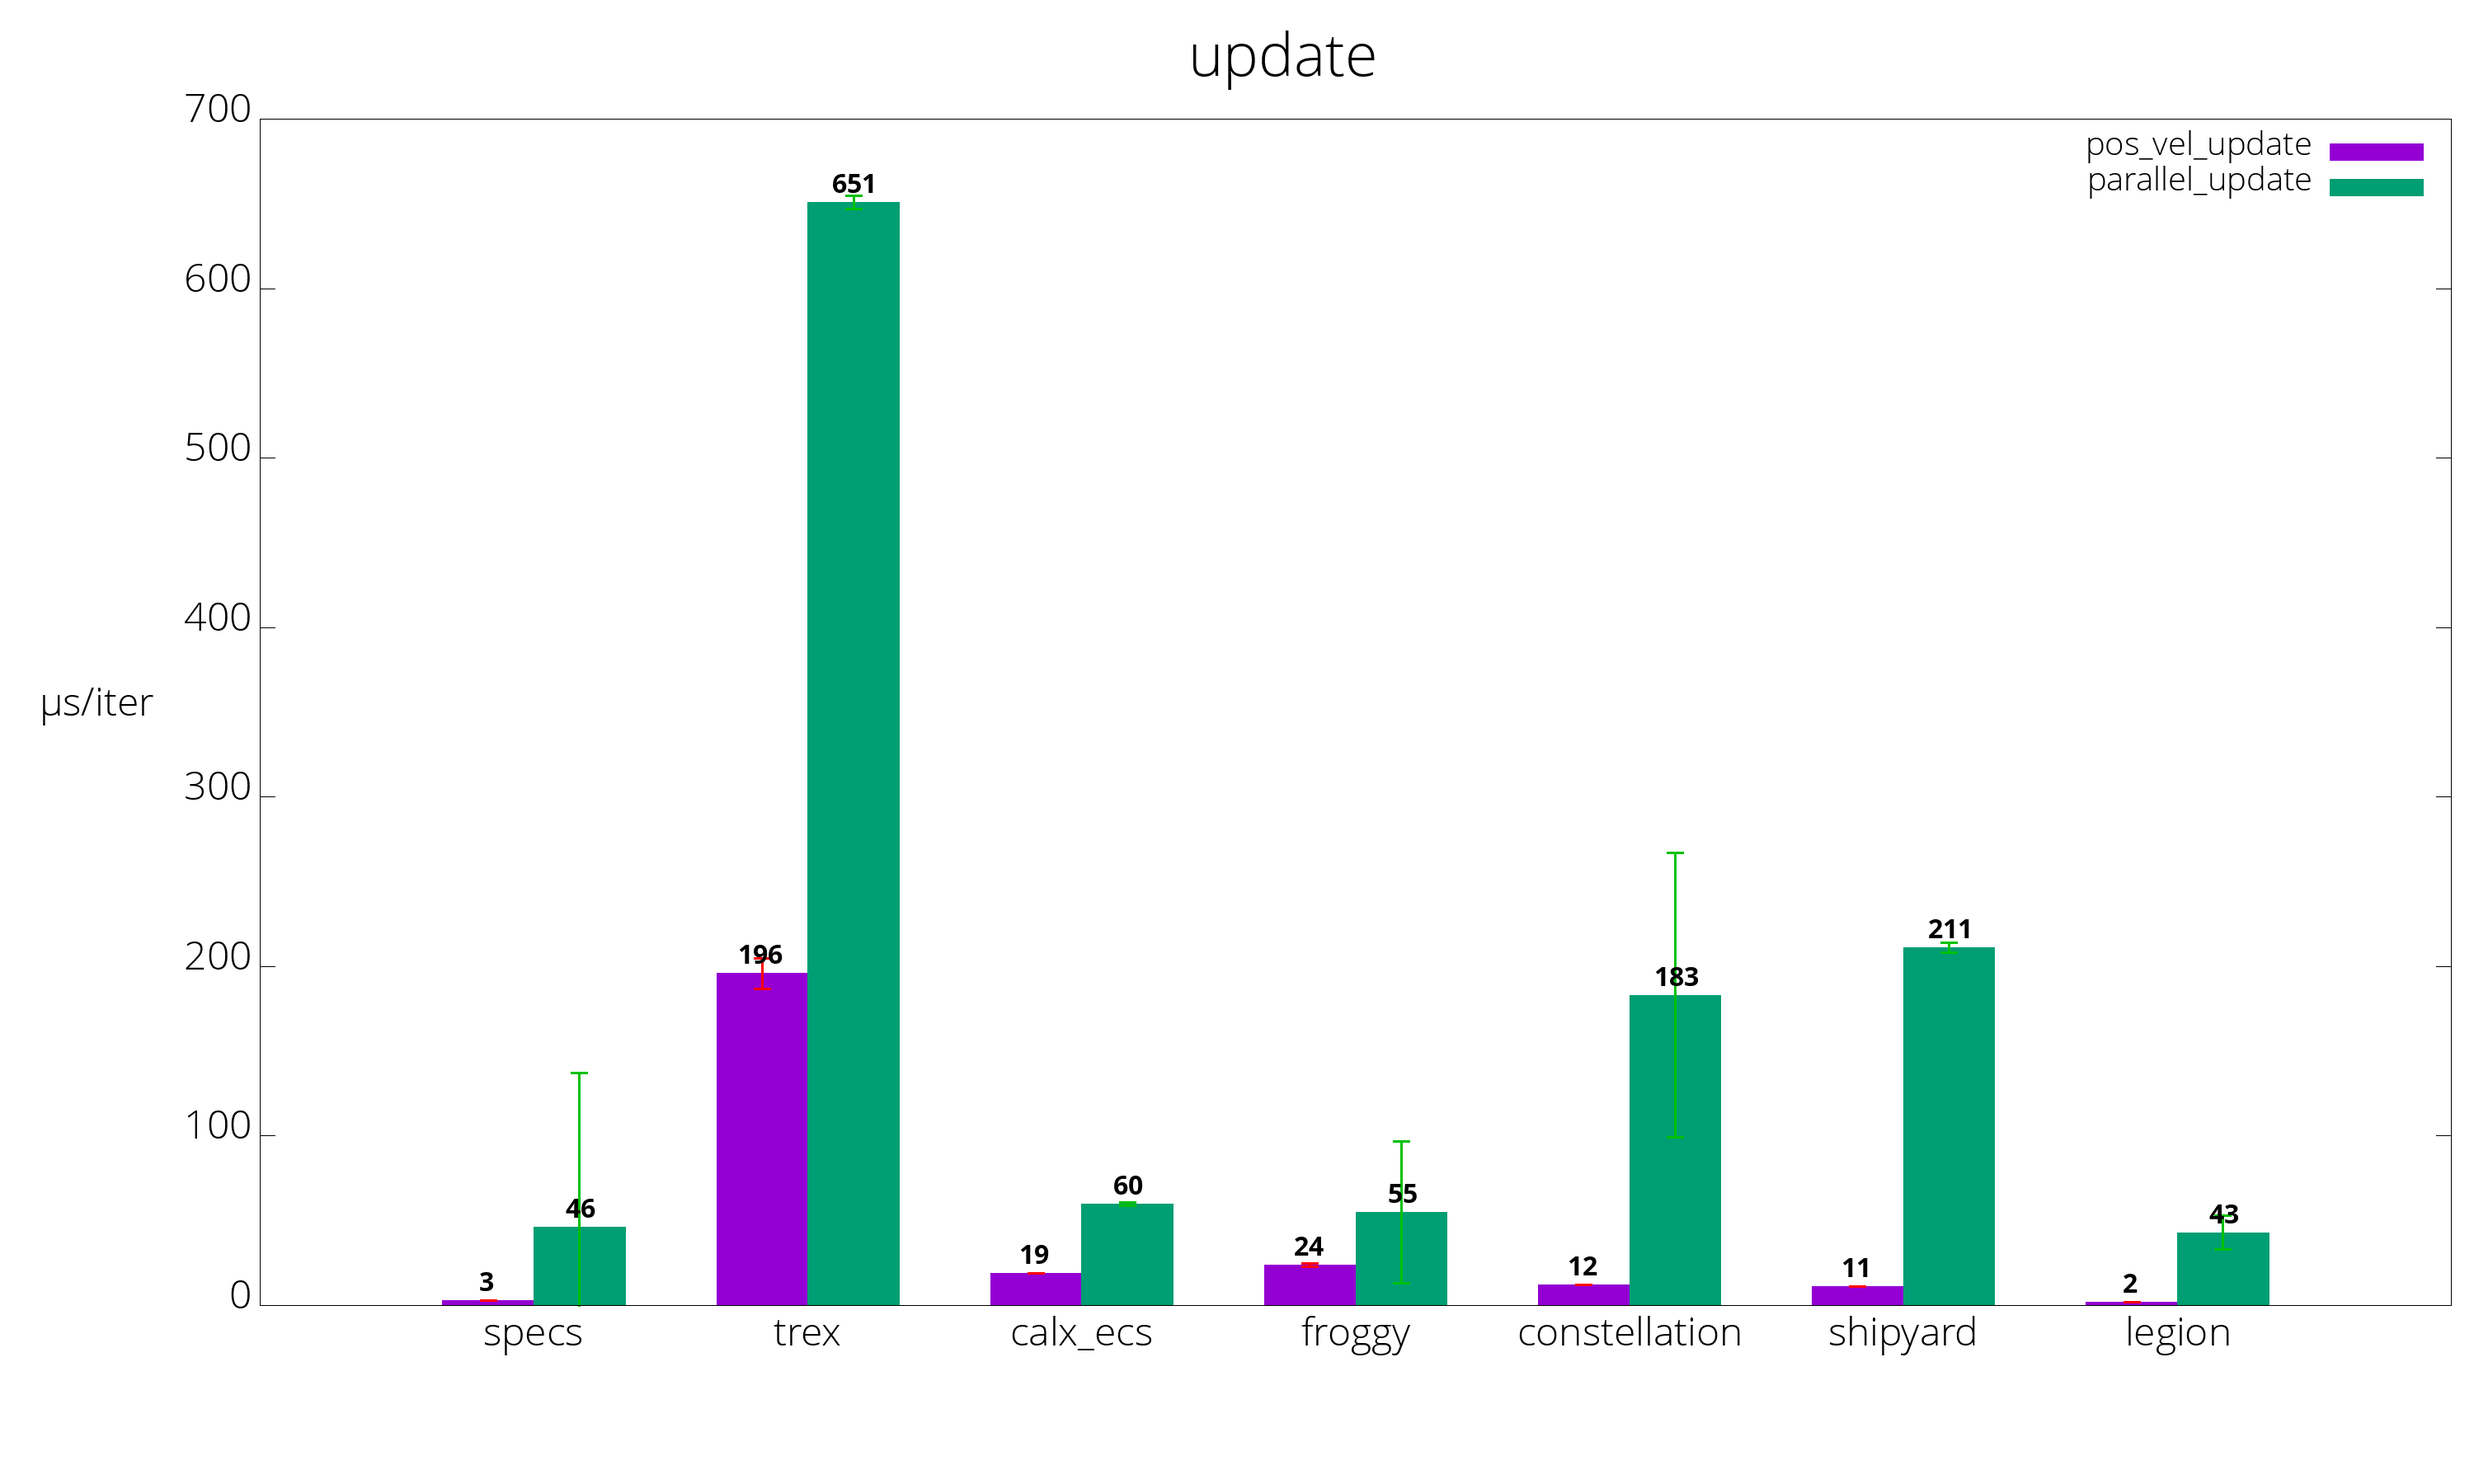
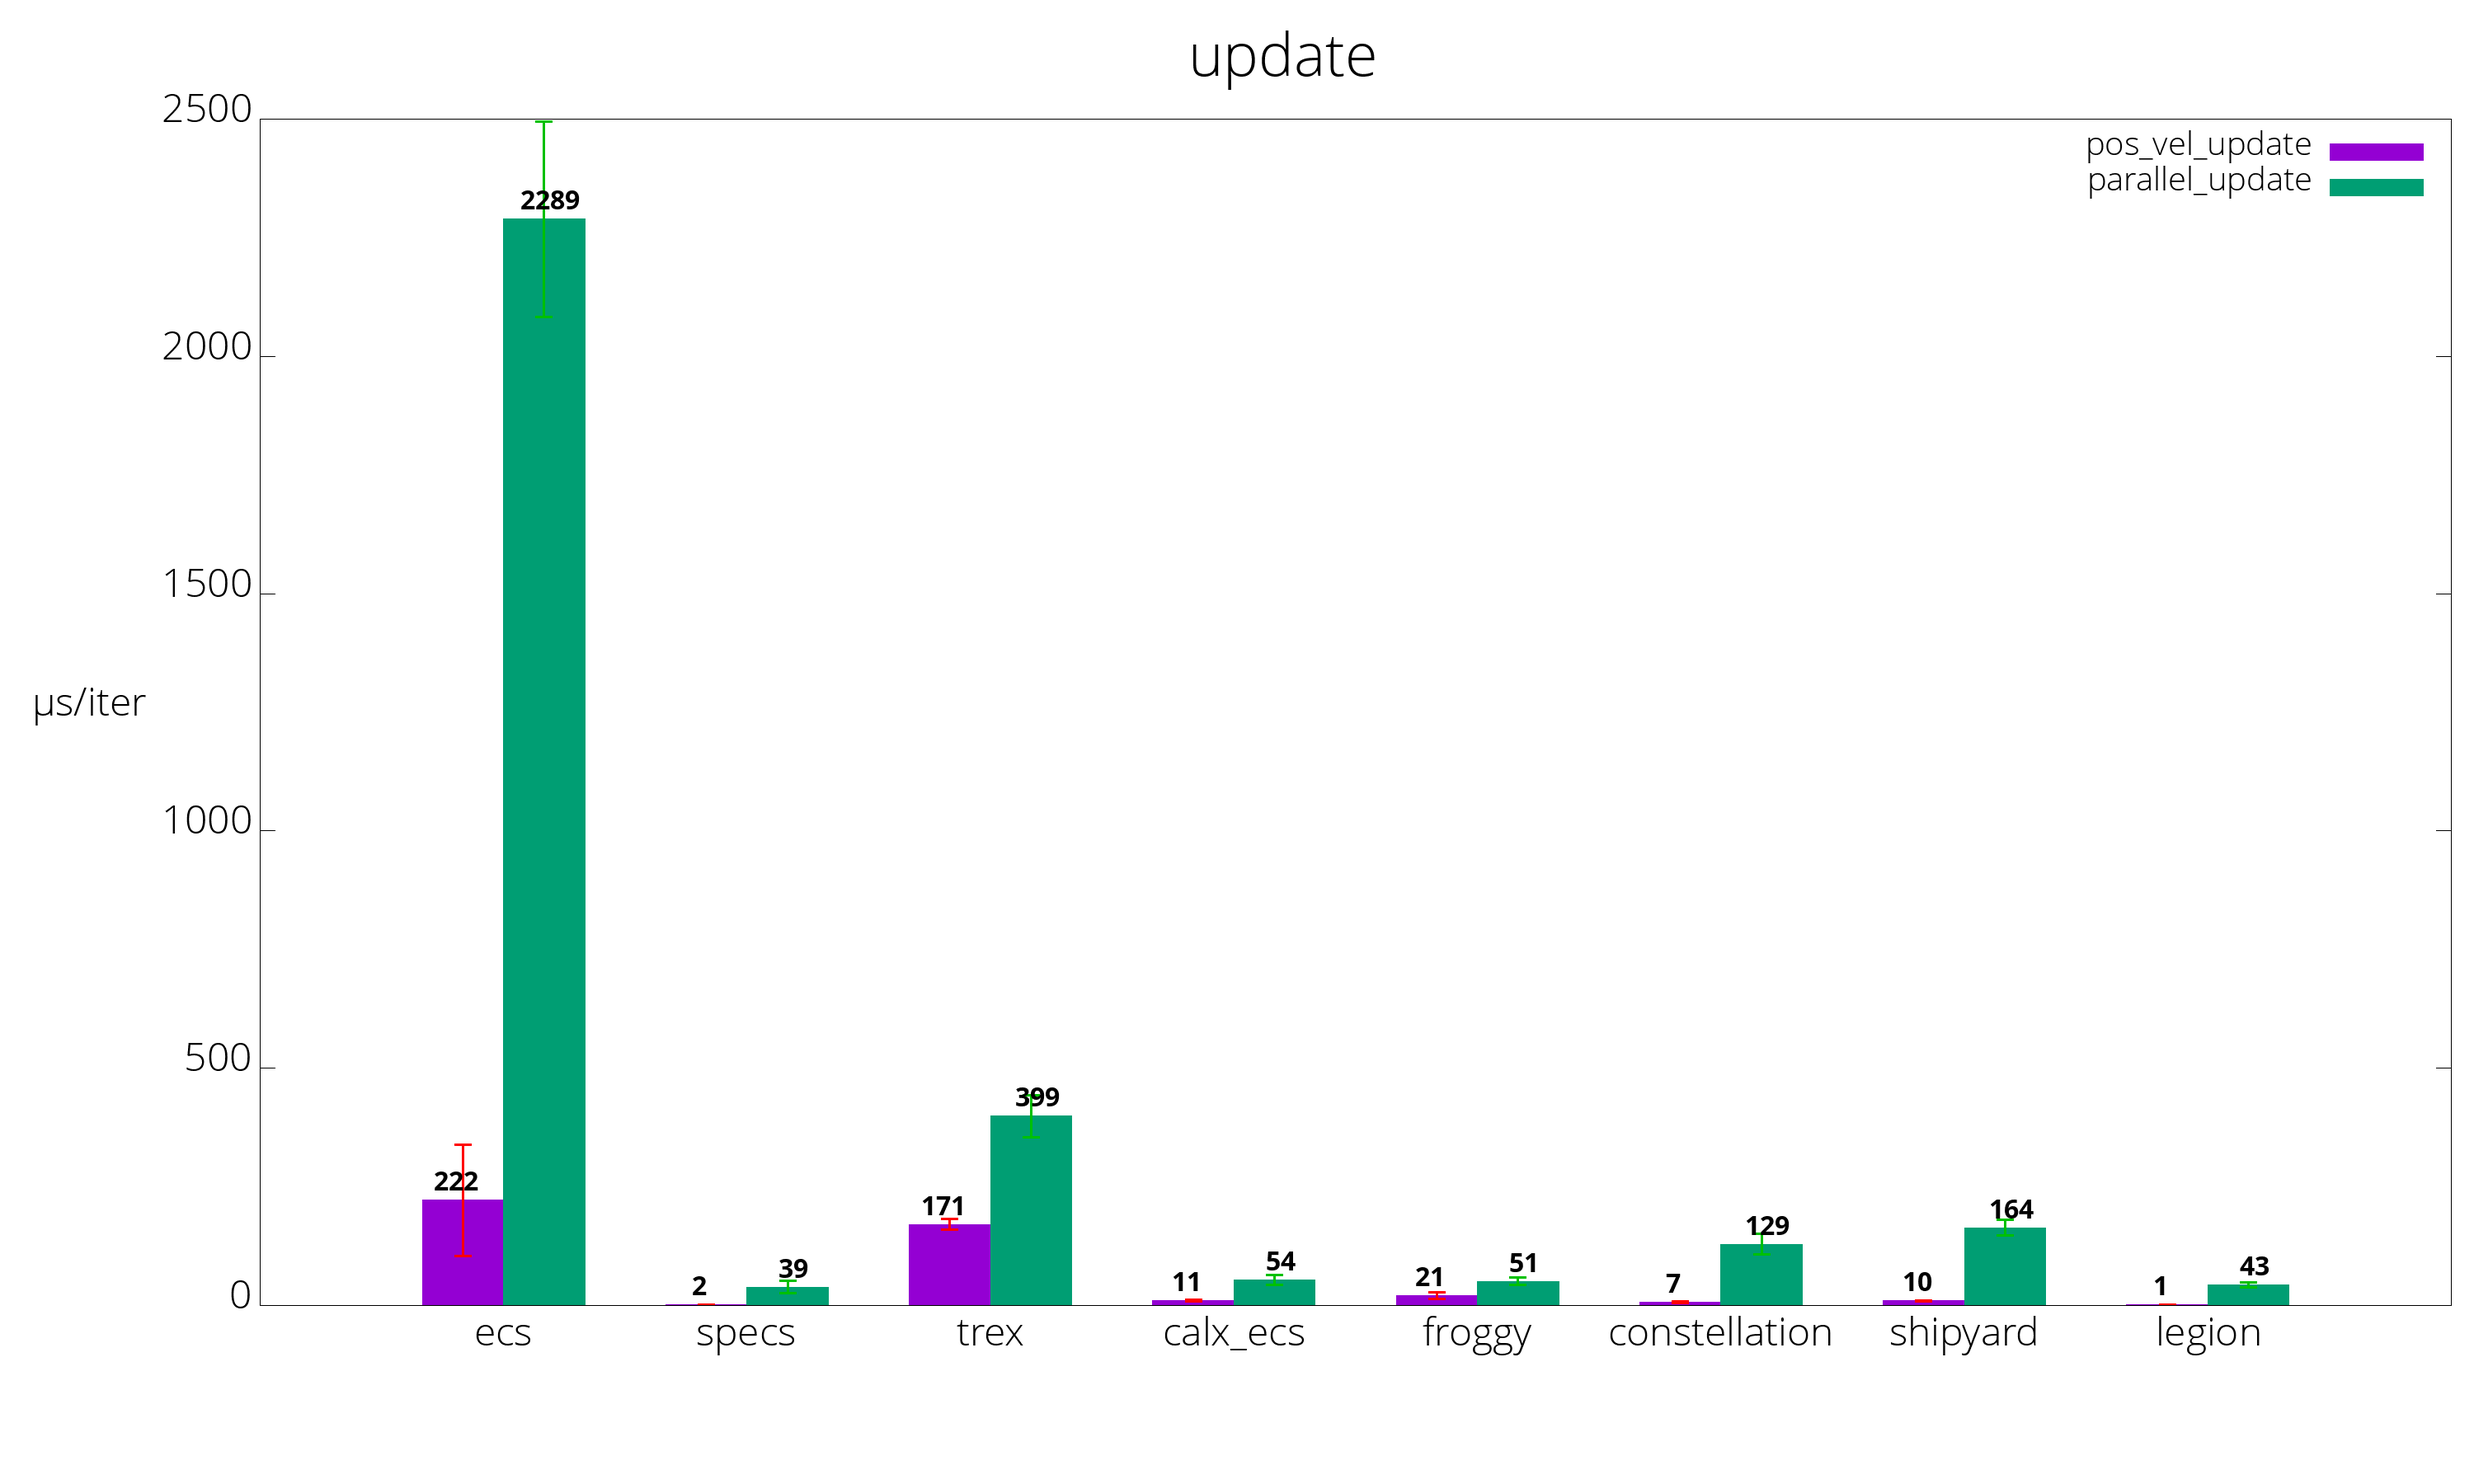
Leave ecs in I guess

diff --git a/bench_results.py b/bench_results.py
@@ -1,7 +1,7 @@
 import os.path
 import subprocess
 
-benches = ['specs', 'trex', 'calx_ecs', 'froggy', 'constellation', 'shipyard', 'legion']
+benches = ['ecs', 'specs', 'trex', 'calx_ecs', 'froggy', 'constellation', 'shipyard', 'legion']
 bench_targets = ['pos_vel', 'parallel']
 bench_names = ['build', 'update']
 

diff --git a/README.md b/README.md
@@ -7,14 +7,14 @@ Benchmarks are located in `benches/[bench_name]_[ecs_crate_name].rs`.
 
  Library         | pos_vel build                 | pos_vel update                 | parallel build                 | parallel update
  --------------- |:-----------------------------:|:------------------------------:|:------------------------------:|:--------------------------------:
- [calx-ecs]      | 404 µs/iter (+/- 128)      | 19 µs/iter (+/- 0)      | 458 µs/iter (+/- 36)      | 60 µs/iter (+/- 1)
- [constellation] | 388 µs/iter (+/- 7) | 12 µs/iter (+/- 0) | 495 µs/iter (+/- 23) | 183 µs/iter (+/- 84)
- [ecs]           | {pos_vel_build_ecs}           | {pos_vel_update_ecs}           | {parallel_build_ecs}           | {parallel_update_ecs}
- [froggy]        | 451 µs/iter (+/- 2)        | 24 µs/iter (+/- 1)        | 763 µs/iter (+/- 27)        | 55 µs/iter (+/- 42)
- [specs]         | 258 µs/iter (+/- 3)         | 3 µs/iter (+/- 0)         | 1,129 µs/iter (+/- 32)         | 46 µs/iter (+/- 91)
- [trex]          | 1,686 µs/iter (+/- 65)          | 196 µs/iter (+/- 9)          | 3,076 µs/iter (+/- 32)          | 651 µs/iter (+/- 4)
- [shipyard]      | 647 µs/iter (+/- 19)      | 11 µs/iter (+/- 0)      | 2,024 µs/iter (+/- 460)      | 211 µs/iter (+/- 3)
- [legion]        | 570 µs/iter (+/- 8)        | 2 µs/iter (+/- 0)        | 771 µs/iter (+/- 24)        | 43 µs/iter (+/- 10)
+ [calx-ecs]      | 227 µs/iter (+/- 24)      | 11 µs/iter (+/- 2)      | 396 µs/iter (+/- 95)      | 54 µs/iter (+/- 10)
+ [constellation] | 232 µs/iter (+/- 17) | 7 µs/iter (+/- 1) | 425 µs/iter (+/- 27) | 129 µs/iter (+/- 22)
+ [ecs]           | 883 µs/iter (+/- 108)           | 222 µs/iter (+/- 117)           | 899 µs/iter (+/- 33)           | 2,289 µs/iter (+/- 206)
+ [froggy]        | 274 µs/iter (+/- 132)        | 21 µs/iter (+/- 7)        | 947 µs/iter (+/- 52)        | 51 µs/iter (+/- 8)
+ [specs]         | 237 µs/iter (+/- 43)         | 2 µs/iter (+/- 0)         | 876 µs/iter (+/- 170)         | 39 µs/iter (+/- 13)
+ [trex]          | 1,525 µs/iter (+/- 272)          | 171 µs/iter (+/- 12)          | 1,981 µs/iter (+/- 363)          | 399 µs/iter (+/- 44)
+ [shipyard]      | 657 µs/iter (+/- 18)      | 10 µs/iter (+/- 1)      | 1,688 µs/iter (+/- 384)      | 164 µs/iter (+/- 17)
+ [legion]        | 385 µs/iter (+/- 27)        | 1 µs/iter (+/- 0)        | 664 µs/iter (+/- 49)        | 43 µs/iter (+/- 5)
 
 [calx-ecs]: https://github.com/rsaarelm/calx-ecs
 [constellation]: https://github.com/TomGillen/constellation/
